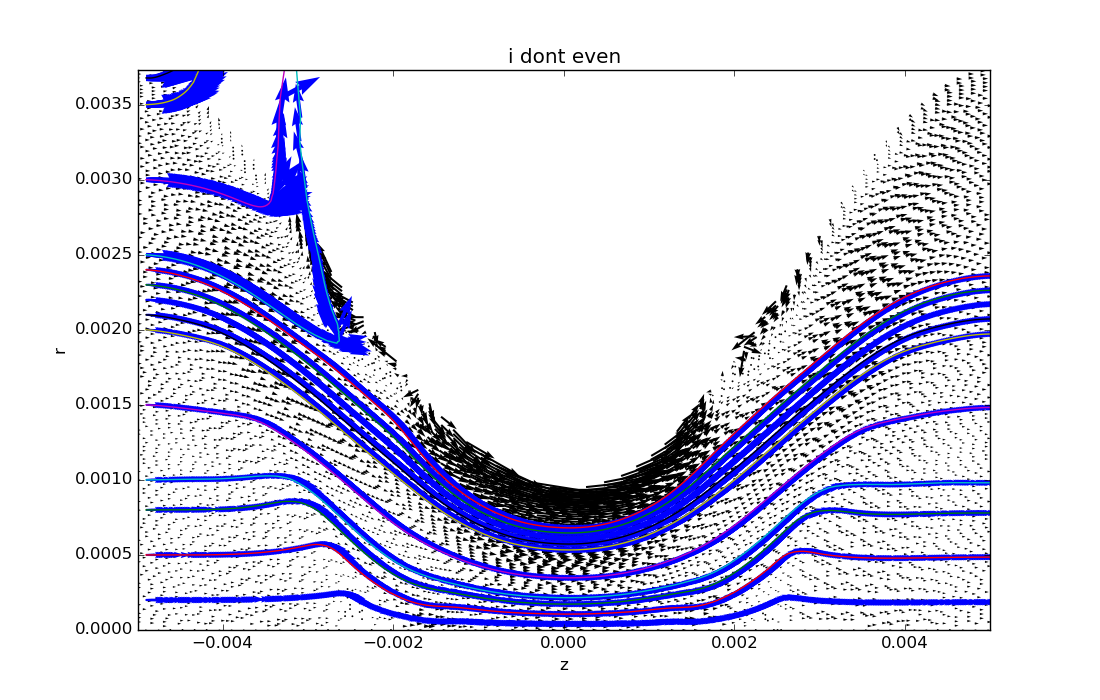
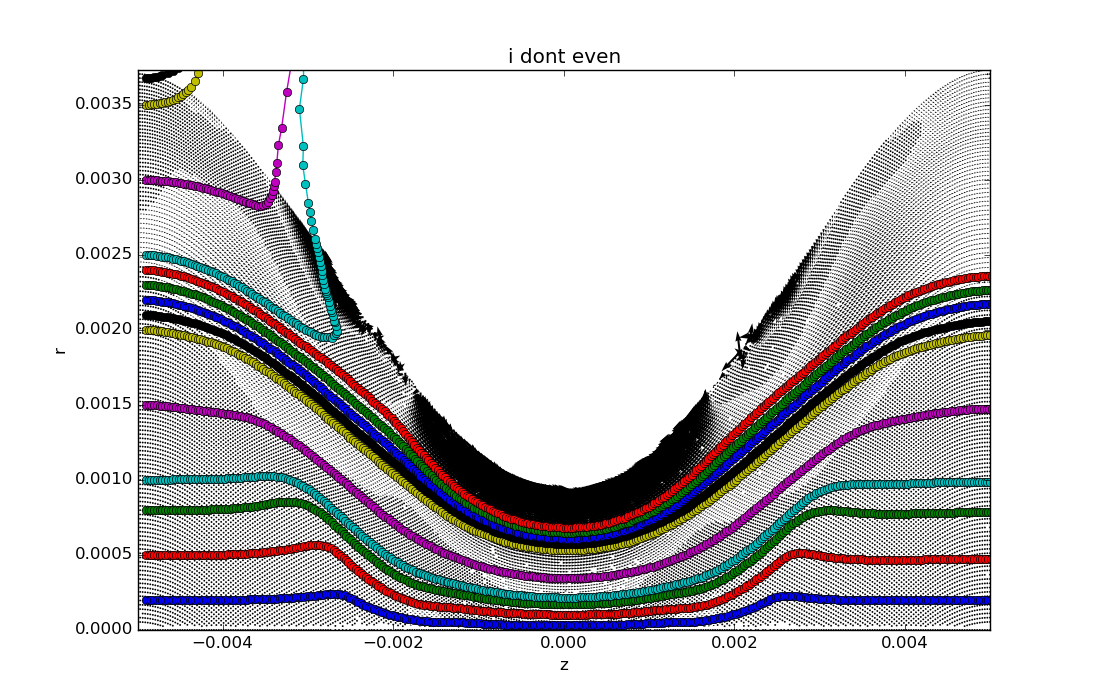
not much changed

Changed region(s): [[0.1236, 0.09, 0.8964, 0.9]]

diff --git a/ruski_interpolation_actual.py b/ruski_interpolation_actual.py
@@ -13,11 +13,12 @@ VY = B4LINE[:,2]
 fig=plt.figure(figsize=(11,7),dpi=100)
 plt.xlabel("z")
 plt.ylabel("r")
-plt.quiver(X[::5],Y[::5],VX[::5],VY[::5], alpha=1)
-
+plt.quiver(X[::1],Y[::1],VX[::1],VY[::1],
+ alpha=1, angles='xy', scale_units='xy')
+#http://stackoverflow.com/questions/12079842/quiver-plot-arrow-aspect-ratio
 def weight(x,y):
     r=x*x+y*y
-    r3=r*r*r*r*r
+    r3=r*r*r
     return 1/r3
 
 def field(r, step_length):
@@ -28,7 +29,7 @@ def field(r, step_length):
     indices_in_radius = x_distances**2+y_distances**2<radius**2
     number_points_inside_radius=np.count_nonzero(indices_in_radius)
     #print(r, number_points_inside_radius, radius)
-    if(number_points_inside_radius<5):
+    if(number_points_inside_radius<15):
         return field(r,step_length*2)
     x_distances_inside=x_distances[indices_in_radius]
     y_distances_inside=x_distances[indices_in_radius]
@@ -48,8 +49,8 @@ def field(r, step_length):
 
     return v_vector, step_length
 
-acceptable_error = 0.00001 #relative to step length
-alpha_coefficient = 0.25 #
+acceptable_error = 0.0000001 #relative to step length
+alpha_coefficient = 0.5 #
 
 def step(r,step_length):
     v, step_length = field(r, step_length)
@@ -81,7 +82,7 @@ def line(starting_r):
     closed = False
     out_of_bounds = False
     r=starting_r
-    step_length = 0.00001
+    step_length = 0.000001
 
     r_array=np.copy(starting_r)
     #TODO: FIELD INTERPOLATION
@@ -127,8 +128,9 @@ rki = [np.array([-0.0049, 0.0002]),
         np.array([-0.0049, 0.00367806])]
 for r in rki:
     r_array, v_array = line(r)
-    plt.plot(r_array[:,0], r_array[:,1], "-")
-    plt.quiver(r_array[:,0], r_array[:,1], v_array[:,0], v_array[:,1], alpha=1, color="blue")
+    plt.plot(r_array[:,0], r_array[:,1], "o-")
+    plt.quiver(r_array[:,0], r_array[:,1], v_array[:,0], v_array[:,1], alpha=0, color="blue",
+     angles='xy', scale_units='xy')
 
 plt.xlim(xmin,xmax)
 plt.ylim(ymin,ymax)
